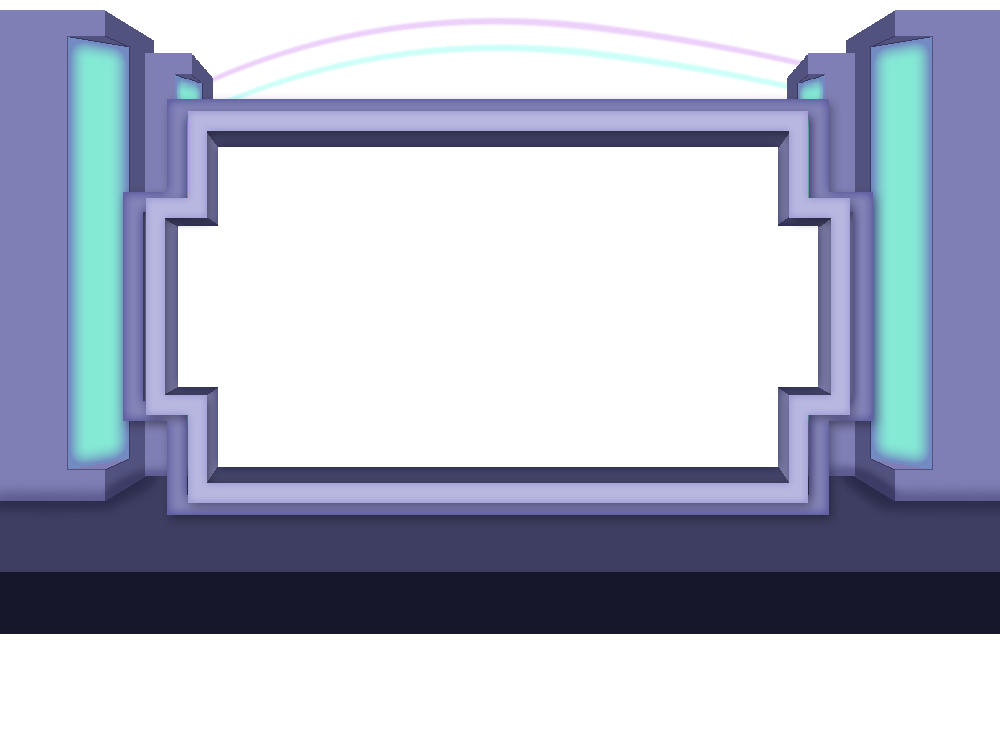
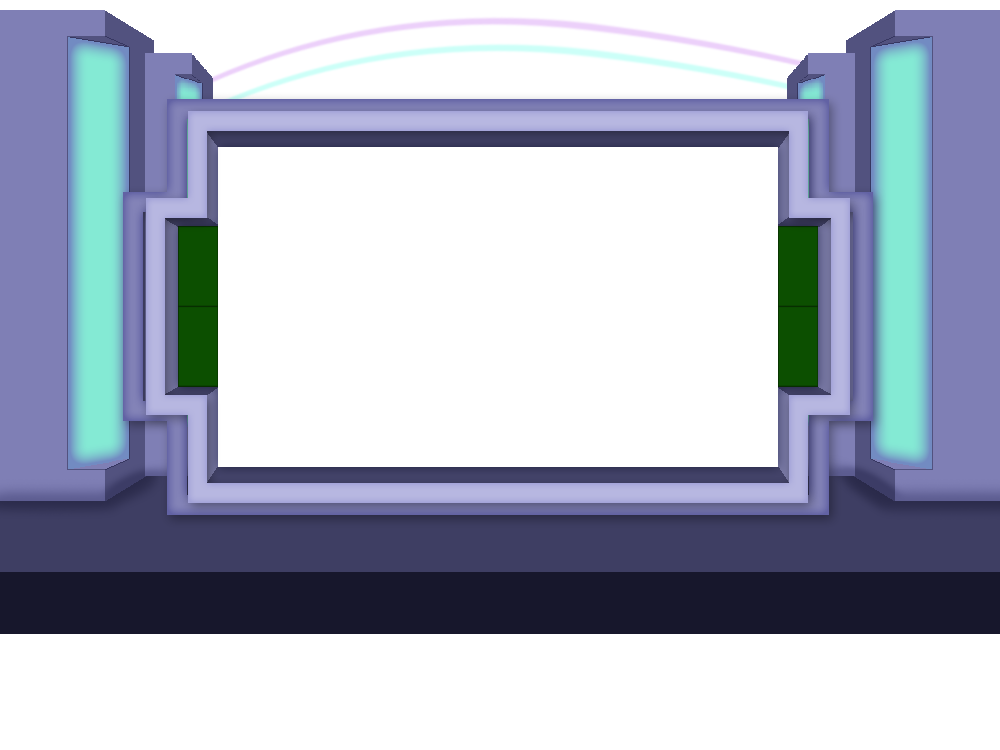
fixed background

Changed region(s): [[0.775, 0.276, 0.837, 0.5213], [0.155, 0.276, 0.217, 0.5213]]

diff --git a/src/WoF/src/Scene3.js b/src/WoF/src/Scene3.js
@@ -11,7 +11,7 @@ class Scene3 extends Phaser.Scene {
     }
     create() {
         this.cameras.main.setViewport(this.parent.x, this.parent.y, this.WIDTH, this.HEIGHT);
-        this.add.image(0, 0, 'background').setOrigin(0, 0);
+        this.add.image(-218, -162, 'background');
         this.setupPuzzle(puzzles[0]);
         this.setupButtons();
     }
